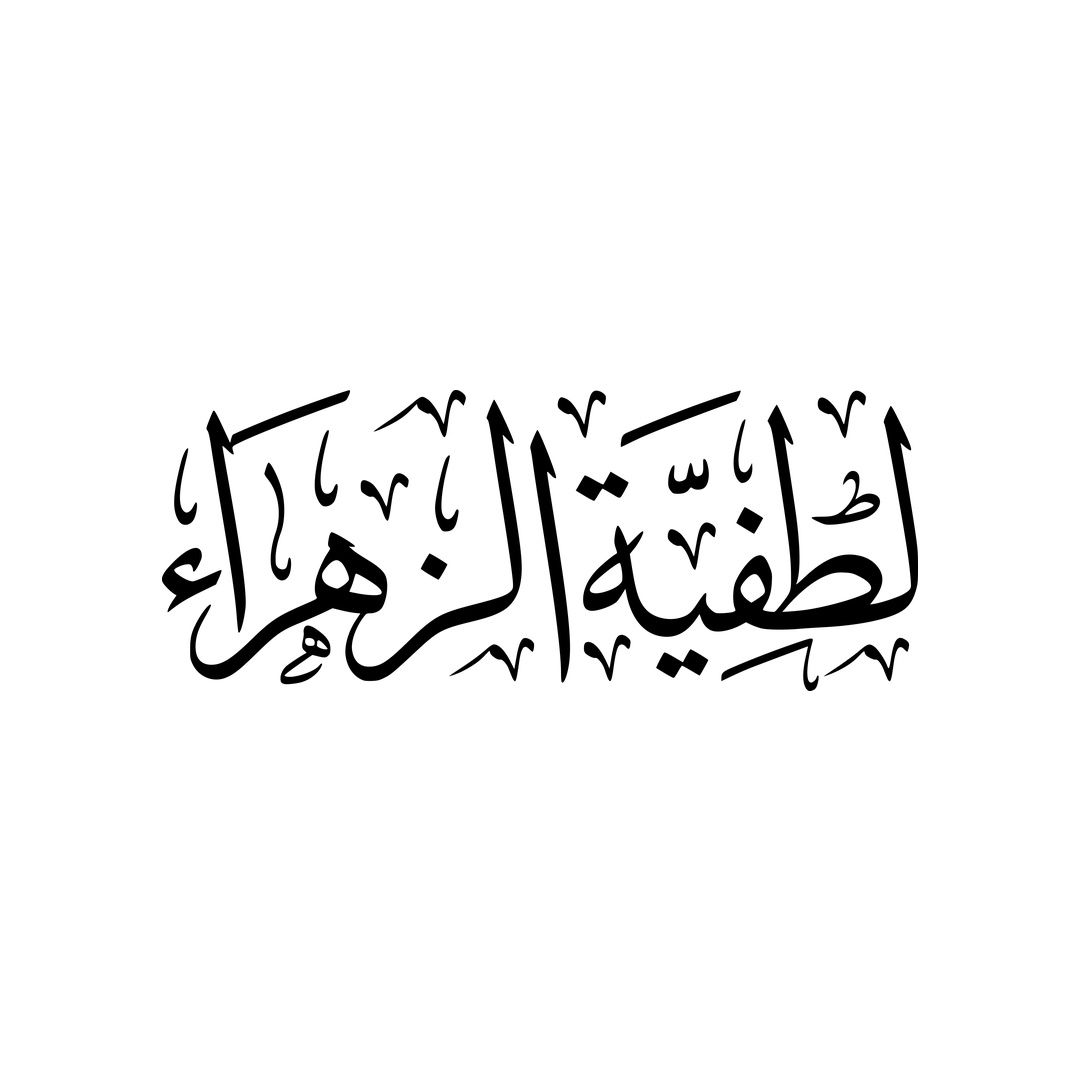
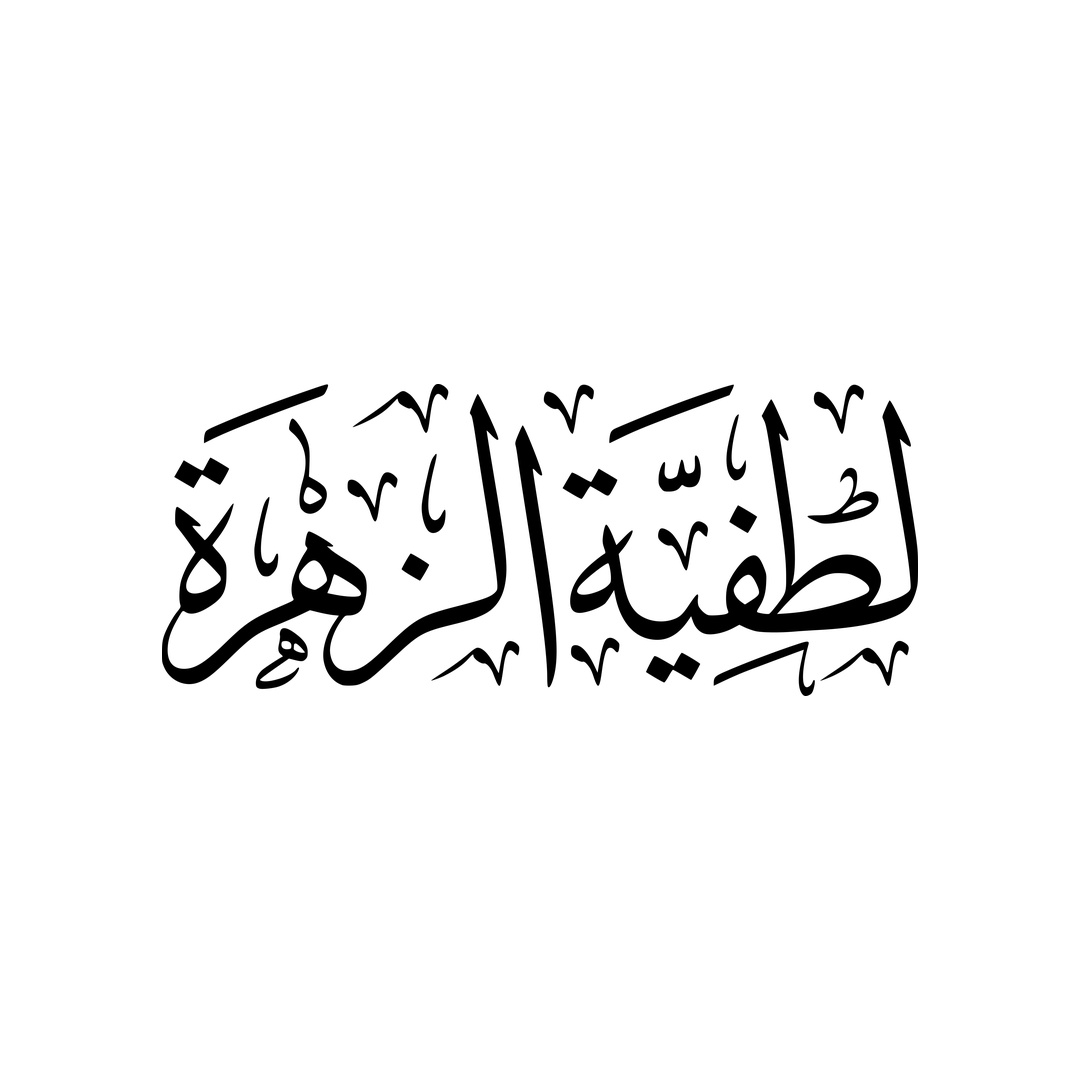
Update gambar #44 لطفية الزهرة (PNG + JPG)

Changed region(s): [[0.1528, 0.3361, 0.8556, 0.6417], [0.7639, 0.3667, 0.825, 0.3972]]

diff --git a/manifest.js b/manifest.js
@@ -42,7 +42,7 @@ window.CALLIGRAPHY = [
   {"n":41,"name":"فضيلة النساء الشهيدة","src":"png/41.png","orig":"فضيلة النساء الشهيدة.png","w":5097,"h":1181},
   {"n":42,"name":"فضيلة رحمة عثمان","src":"png/42.png","orig":"فضيلة رحمة عثمان.png","w":3507,"h":1181},
   {"n":43,"name":"فليتلطف الندى صفي","src":"png/43.png","orig":"فليتلطف الندى صفي.png","w":4905,"h":1181},
-  {"n":44,"name":"لطفية الزهرة","src":"png/44.png","orig":"لطفية الزهرة.png","w":2969,"h":1181},
+  {"n":44,"name":"لطفية الزهرة","src":"png/44.png","orig":"لطفية الزهرة.png","w":2859,"h":1181},
   {"n":45,"name":"لطيفة نور العين","src":"png/45.png","orig":"لطيفة نور العين.png","w":4342,"h":1181},
   {"n":46,"name":"ليلى سفيرا ياسميتا","src":"png/46.png","orig":"ليلى سفيرا ياسميتا.png","w":3692,"h":1181},
   {"n":47,"name":"ندى سلسبيلا سويادي","src":"png/47.png","orig":"ندى سلسبيلا سويادي.png","w":3999,"h":1181},
